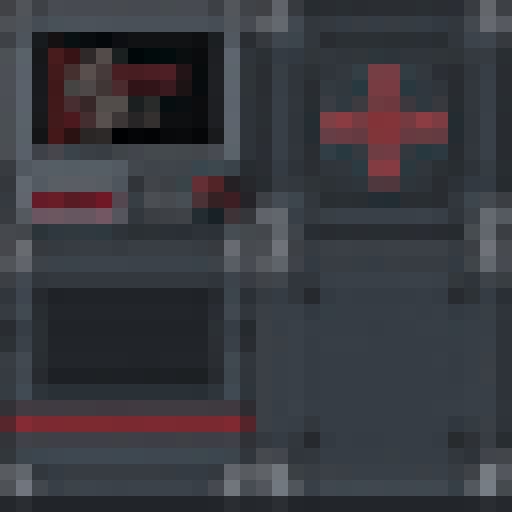
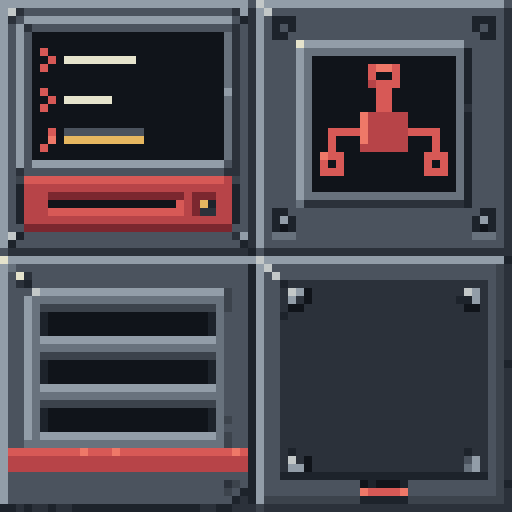
Redesign Programming Station artwork for readable 32x32 faces

diff --git a/docs/art/PROGRAMMING_STATION.md b/docs/art/PROGRAMMING_STATION.md
@@ -1,18 +1,44 @@
-# Programming Station placeholder artwork
+# Programming Station artwork
 
-Four opaque 16x16 PNG block textures provide a dark gunmetal workstation with red
-accents, a recessed code display, disk slot, ventilated casing and maintenance
-plate. The front faces the placing player; existing unrotated stations use the
-south face. This changes appearance only, not project storage or execution.
+Four opaque **32x32** PNG faces use a shared 14-color steel/red palette. The
+front has three high-contrast code rows, a large red disk drive and an amber
+status lamp. The side has broad vents; the top has a bold circuit symbol.
+The bottom is a simple maintenance plate. Orientation and behavior are unchanged.
 
-Source: [generated atlas](programming-station-atlas.png). Generated with the
-built-in image-generation tool. The atlas was split into four faces and reduced
-with filtered sampling to retain small details at 16x16. The enlarged preview
-uses nearest-neighbor scaling; runtime faces are genuine 16x16 PNGs.
-
-Runtime assets are in
+Runtime assets:
 `src/main/resources/assets/superfactorymanager/textures/blocks/programming_station_*.png`.
 
-## Generation prompt
+[Final 64x64 face atlas](programming-station-atlas.png) contains four actual
+32x32 faces: front, top, side and bottom in reading order.
+[Enlarged pixel preview](programming-station-preview.png) uses nearest-neighbor
+scaling of those exact final PNGs. Judge legibility from these packaged faces,
+not from high-resolution generation output.
 
-Use case: precise-object-edit. Edit target: the supplied SFM Programming Station 2x2 block texture atlas. Simplify the SAME four faces into EXACTLY 16 by 16 logical pixels EACH, enlarged as sharp square pixel art. Entire image must be 32 by 32 logical pixels enlarged, split into equal 2x2 tiles edge to edge without gaps, margins, labels or perspective. Top-left FRONT: charcoal steel frame, upper recessed black screen with just a few big red and pale gray code marks, bottom a red disk slot and small controls. Top-right TOP: matching steel panel with a simple red circuit cross in middle. Bottom-left SIDE: gray steel vents, red horizontal stripe below vents. Bottom-right BOTTOM: simple sealed steel plate and four screws. Preserve gunmetal gray/desaturated red palette and industrial inset panel style of input. Eliminate fine details that cannot survive 16x16. Every detail uses full integer pixels on the 16x16 grid; no antialiasing, gradients or noise. No words, logos, transparency, photorealism or rendered cube. Production Minecraft 1.7.10 textures.
+## Production
+
+Generated with the built-in image-generation tool, one image per face. Final
+faces are sampled at pixel centers onto a 32x32 grid and quantized to the same
+14 colors. No filtered reduction, gradients or interpolated edge colors are
+used. Original generation output remains private; the public atlas and runtime
+assets contain the final pixel artwork only.
+
+Palette: `#10141a #1d232b #2b313a #3c434c #4b535e #68727d #929da8
+#c3c8c8 #7b272f #b74448 #d75956 #ef7868 #e5e3cc #e6b760`.
+
+## Generation prompts
+
+### front
+
+Use case: stylized-concept. Asset type: production Minecraft 1.7.10 block-face texture. Design completely NEW artwork at EXACTLY 32 by 32 LOGICAL PIXELS enlarged to fill a square canvas. One flat orthographic face fills the ENTIRE image edge-to-edge. This is a pixel texture, not a rendered block, not a product illustration. Chunky hard-edged true pixel art drawn on a uniform 32x32 grid. Each logical pixel is a single solid color square. Use 10 to 14 solid colors only, NO gradients, noise, glow, antialiasing, microtexture or thin subpixel marks. Broad, deliberately legible shapes that survive reduction to 32x32. Dark industrial SFM computer workstation: medium gunmetal casing #4b515b, black recess #10141a, steel edge highlights #929ba5, deep edge shadows #252a33, saturated brick red #b74448 with coral red highlight #e06b62, ivory screen glyphs #e3e3cc and warm amber #e6b760. 2-logical-pixel steel outer border with simple light upper-left bevel and dark bottom-right edge. Keep generous contrast; no muddy gray-on-gray. No lettering, watermark, perspective, drop shadow, margins, multiple tiles or scene. FRONT FACE: a clearly recognizable programming terminal. Huge rectangular black computer monitor covers most of upper two-thirds: screen approximately logical x5..26,y5..19 with a thick raised metal bezel. On screen place THREE distinct big terminal rows, each 2 logical pixels tall: coral red > prompt with 8-pixel ivory horizontal bar, second shorter ivory bar, and third amber bar. Large dark spaces between rows; tiny marks forbidden. Lower third: very obvious bright red disk-drive bezel spanning x5..24,y24..28, with a BLACK HORIZONTAL DISK SLOT 14x2 logical pixels centered inside. To right of disk slot one square amber status lamp. Bottom lip steel. Just two minimal corner screws. Readable as screen plus disk drive at actual 32x32 resolution.
+
+### top
+
+Use case: stylized-concept. Asset type: production Minecraft 1.7.10 block-face texture. Design completely NEW artwork at EXACTLY 32 by 32 LOGICAL PIXELS enlarged to fill a square canvas. One flat orthographic face fills the ENTIRE image edge-to-edge. This is a pixel texture, not a rendered block, not a product illustration. Chunky hard-edged true pixel art drawn on a uniform 32x32 grid. Each logical pixel is a single solid color square. Use 10 to 14 solid colors only, NO gradients, noise, glow, antialiasing, microtexture or thin subpixel marks. Broad, deliberately legible shapes that survive reduction to 32x32. Dark industrial SFM computer workstation: medium gunmetal casing #4b515b, black recess #10141a, steel edge highlights #929ba5, deep edge shadows #252a33, saturated brick red #b74448 with coral red highlight #e06b62, ivory screen glyphs #e3e3cc and warm amber #e6b760. 2-logical-pixel steel outer border with simple light upper-left bevel and dark bottom-right edge. Keep generous contrast; no muddy gray-on-gray. No lettering, watermark, perspective, drop shadow, margins, multiple tiles or scene. TOP FACE: simple matching industrial workstation lid. A broad light-gray raised rectangular center plate with a near-black inset and a BOLD RED CIRCUIT SYMBOL: central red 6x6 square connected by thick 2-pixel traces to three small square terminals. Symbol large and legible in center of panel, around logical x8..24,y8..24. Two modest corner fasteners only. Keep the casing mid-gray so the red and the recess stand out. No screen or disk slot on top.
+
+### side
+
+Use case: stylized-concept. Asset type: production Minecraft 1.7.10 block-face texture. Design completely NEW artwork at EXACTLY 32 by 32 LOGICAL PIXELS enlarged to fill a square canvas. One flat orthographic face fills the ENTIRE image edge-to-edge. This is a pixel texture, not a rendered block, not a product illustration. Chunky hard-edged true pixel art drawn on a uniform 32x32 grid. Each logical pixel is a single solid color square. Use 10 to 14 solid colors only, NO gradients, noise, glow, antialiasing, microtexture or thin subpixel marks. Broad, deliberately legible shapes that survive reduction to 32x32. Dark industrial SFM computer workstation: medium gunmetal casing #4b515b, black recess #10141a, steel edge highlights #929ba5, deep edge shadows #252a33, saturated brick red #b74448 with coral red highlight #e06b62, ivory screen glyphs #e3e3cc and warm amber #e6b760. 2-logical-pixel steel outer border with simple light upper-left bevel and dark bottom-right edge. Keep generous contrast; no muddy gray-on-gray. No lettering, watermark, perspective, drop shadow, margins, multiple tiles or scene. SIDE/BACK FACE: simple matching industrial computer casing. Three very broad BLACK horizontal ventilation slots, each about 20 logical pixels wide and 3 logical pixels tall, separated by thick raised gray steel bars, filling center x6..25,y7..22. One unmistakable brick-red horizontal band across lower third at y25..27. Two small steel fasteners at opposite corners. Strong shadows and highlights on the vent frame. Legible black vents and red stripe at 32x32.
+
+### bottom
+
+Use case: stylized-concept. Asset type: production Minecraft 1.7.10 block-face texture. Design completely NEW artwork at EXACTLY 32 by 32 LOGICAL PIXELS enlarged to fill a square canvas. One flat orthographic face fills the ENTIRE image edge-to-edge. This is a pixel texture, not a rendered block, not a product illustration. Chunky hard-edged true pixel art drawn on a uniform 32x32 grid. Each logical pixel is a single solid color square. Use 10 to 14 solid colors only, NO gradients, noise, glow, antialiasing, microtexture or thin subpixel marks. Broad, deliberately legible shapes that survive reduction to 32x32. Dark industrial SFM computer workstation: medium gunmetal casing #4b515b, black recess #10141a, steel edge highlights #929ba5, deep edge shadows #252a33, saturated brick red #b74448 with coral red highlight #e06b62, ivory screen glyphs #e3e3cc and warm amber #e6b760. 2-logical-pixel steel outer border with simple light upper-left bevel and dark bottom-right edge. Keep generous contrast; no muddy gray-on-gray. No lettering, watermark, perspective, drop shadow, margins, multiple tiles or scene. BOTTOM FACE: simple matching sealed gunmetal maintenance cover. Broad light steel outer rim, single large charcoal rectangular inset maintenance plate, only FOUR distinct square steel screw heads near its corners. A small red 6x2 rectangular service marker near the bottom center. No vents, screen, ornate details or decorative symbols. Bold clean 32x32 pixel-art construction.
